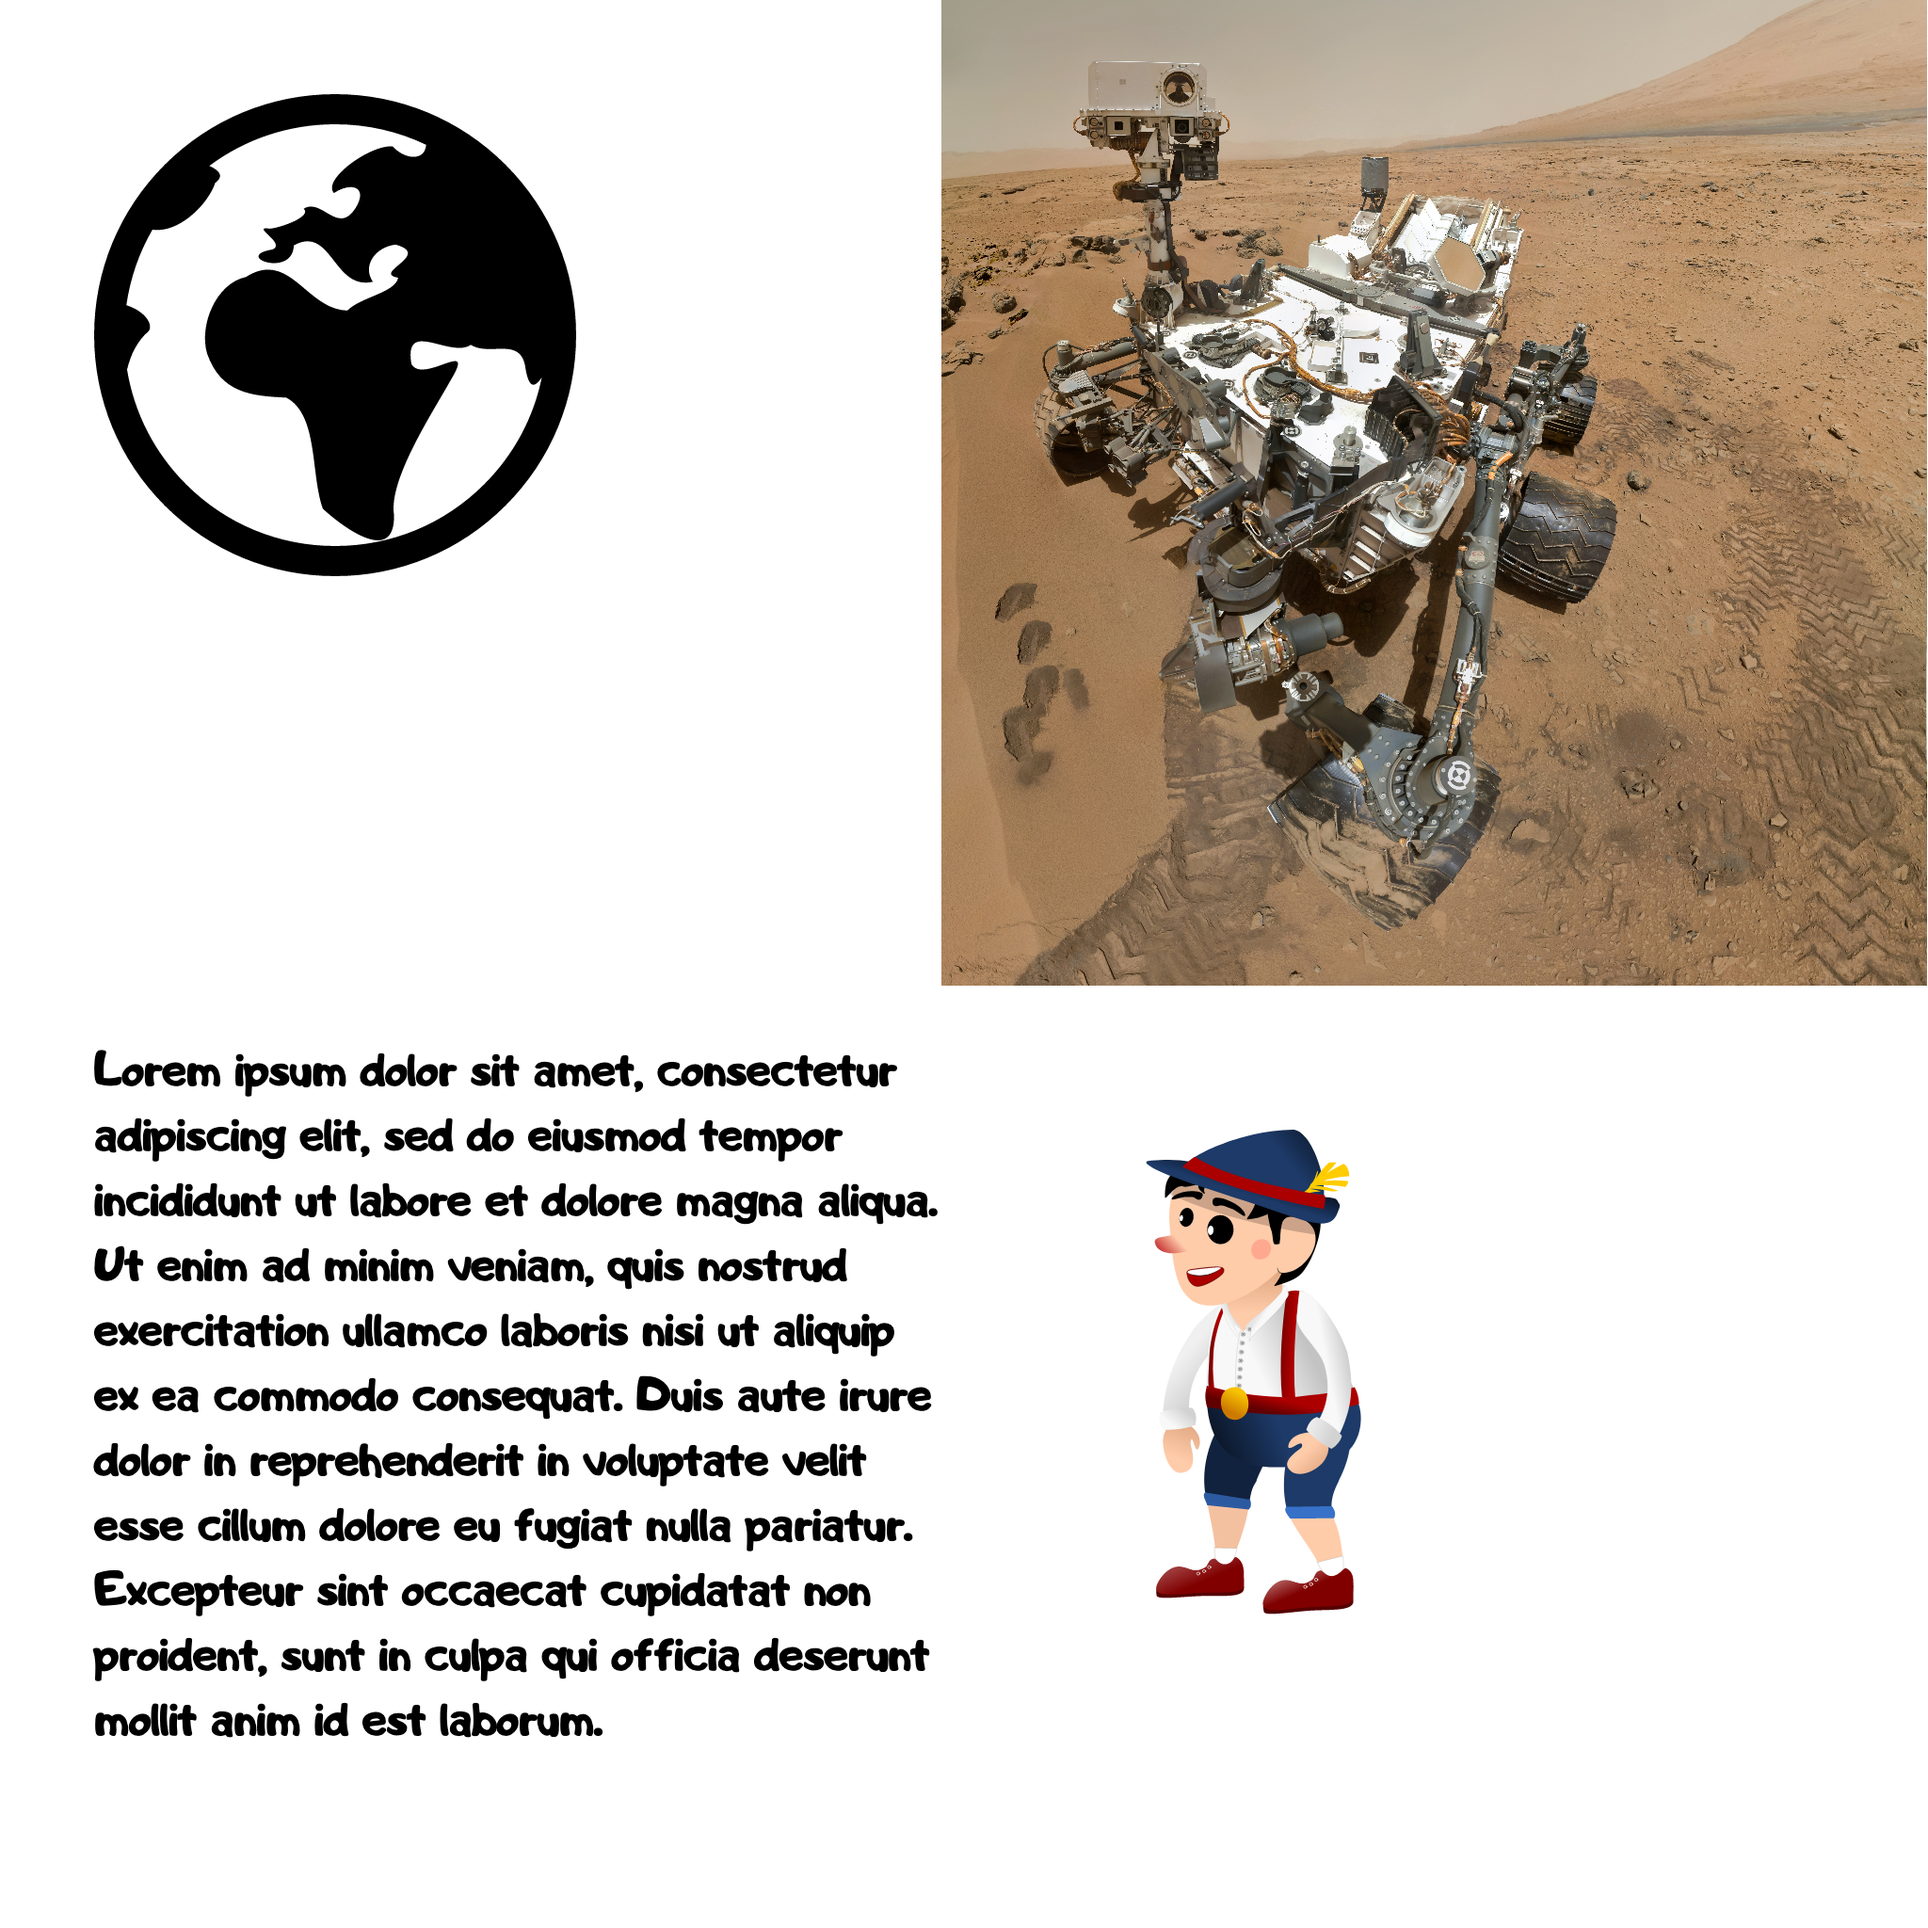
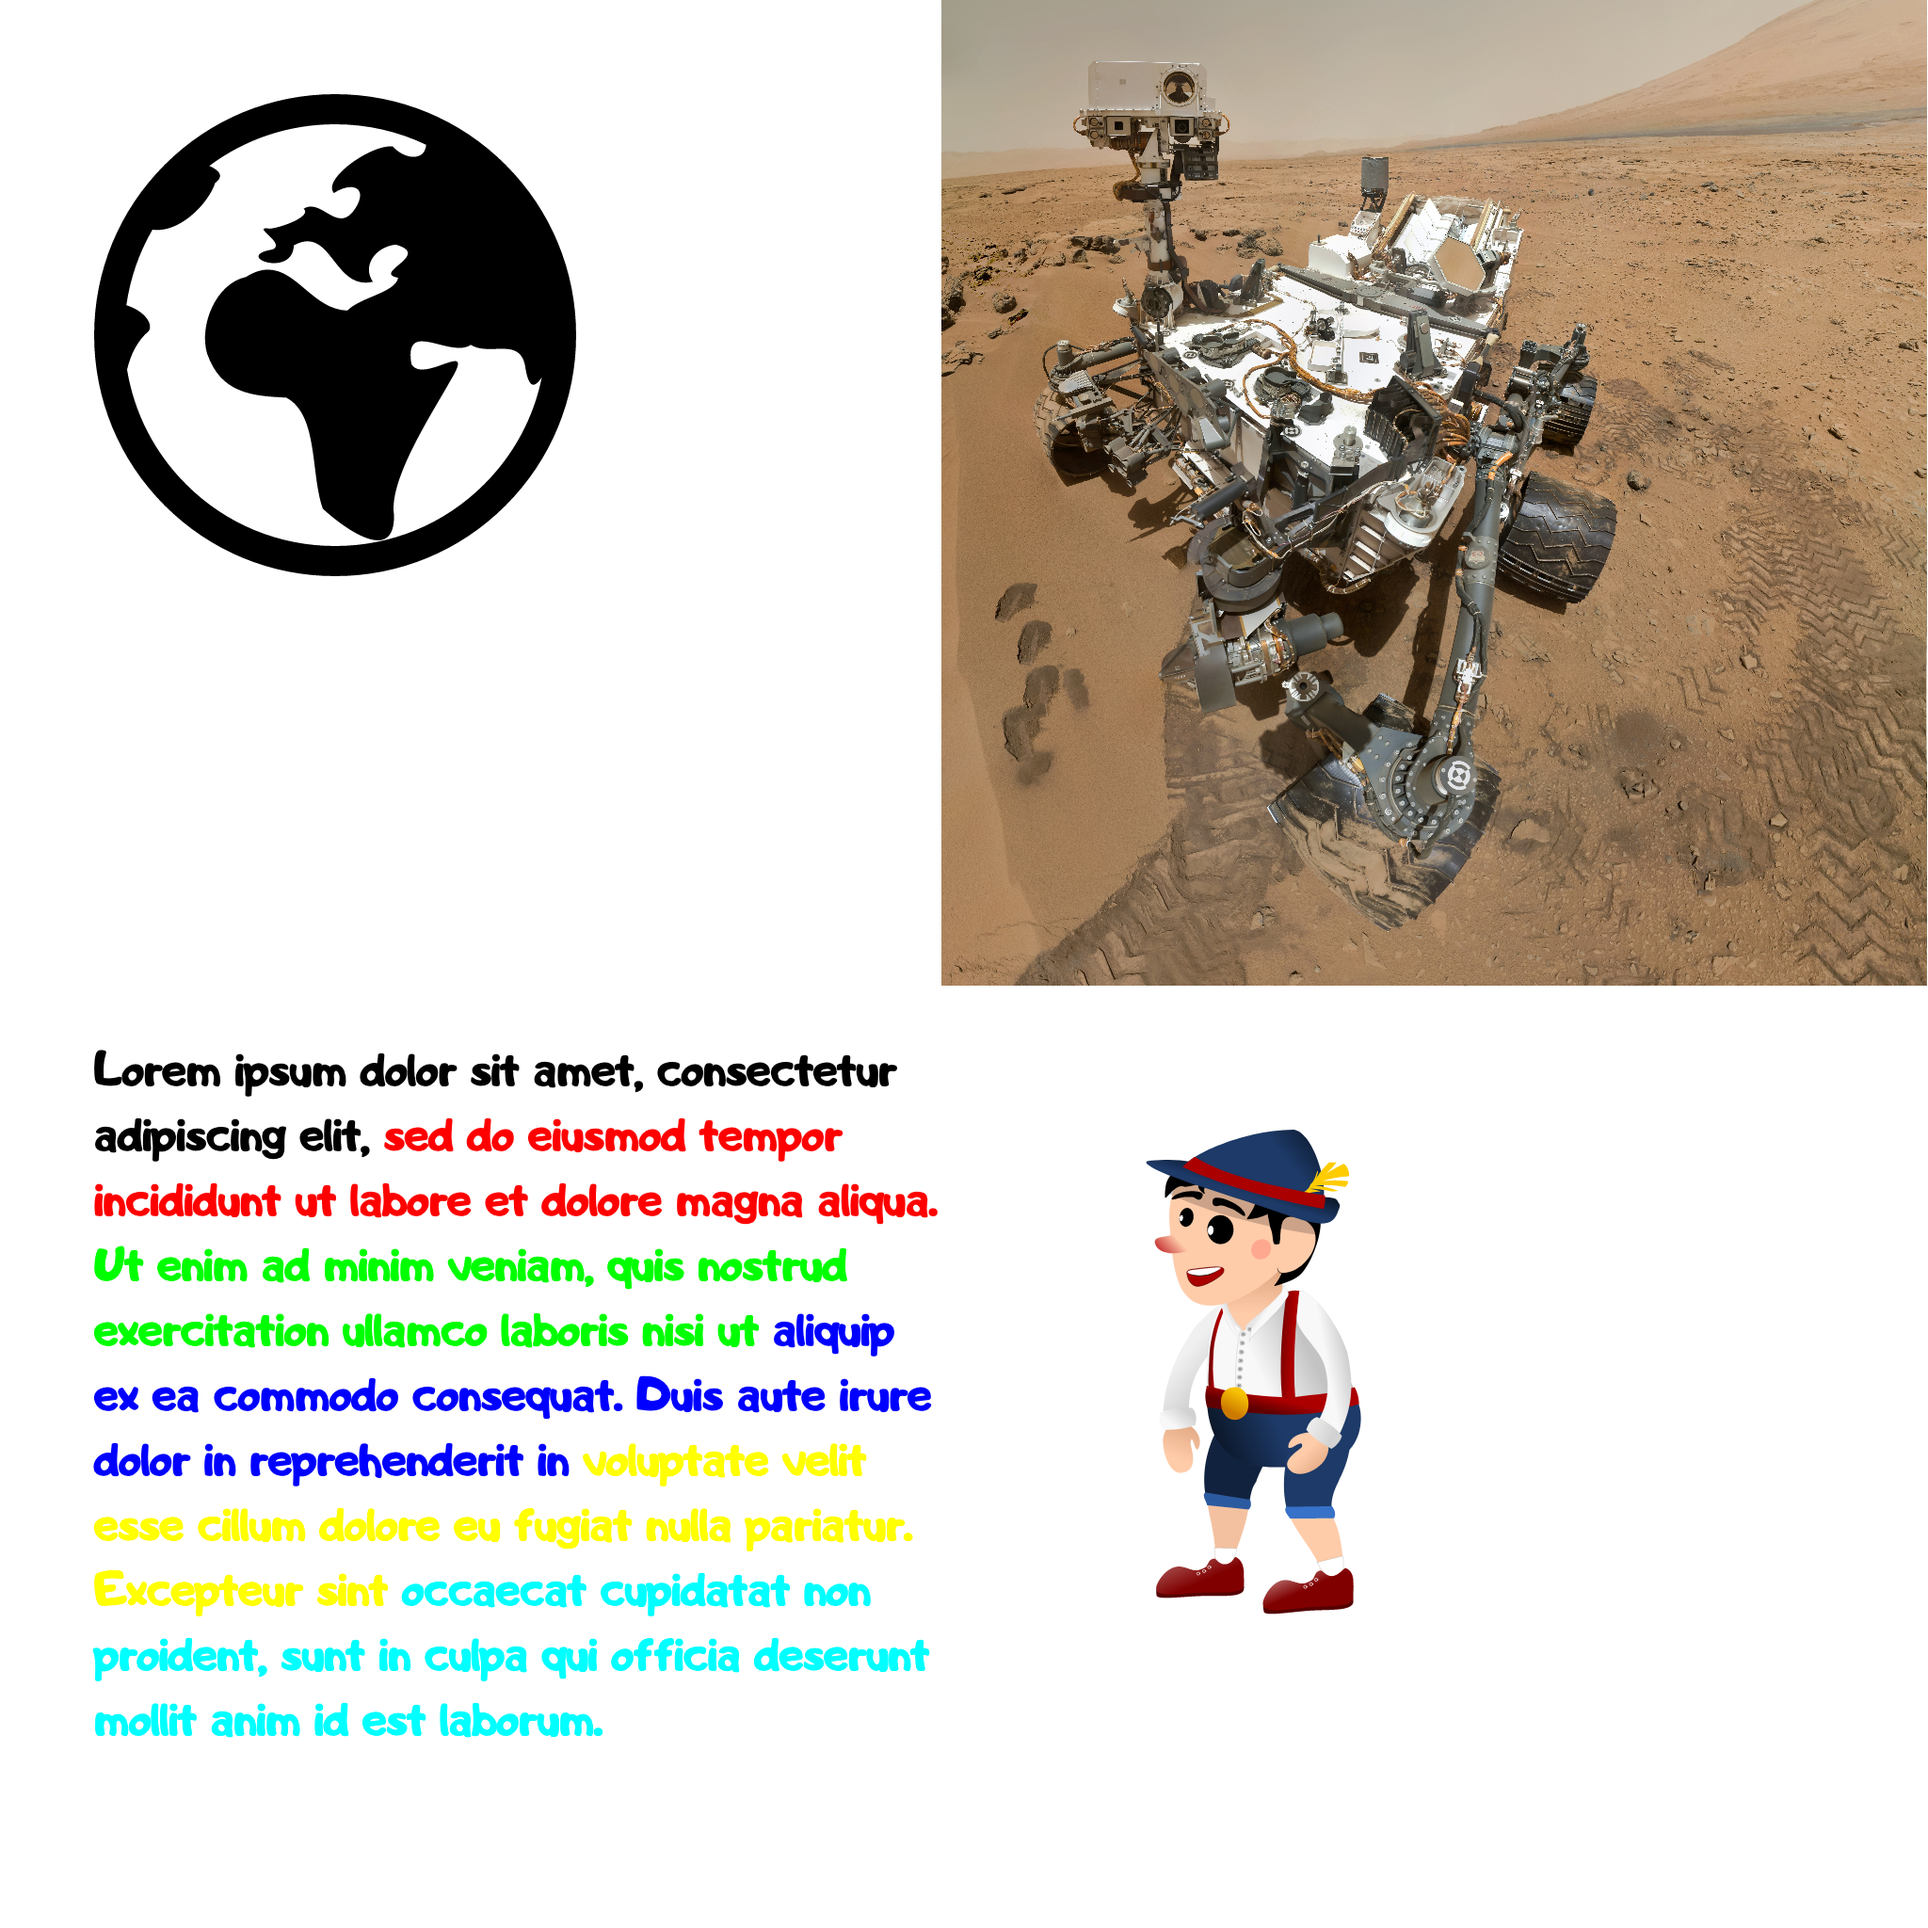
Multicoloured text

Changed region(s): [[0.0312, 0.5625, 0.5, 0.9062]]

diff --git a/src/main/java/org/example/Main.java b/src/main/java/org/example/Main.java
@@ -67,7 +67,22 @@ public class Main {
             typefaceProvider.registerTypeface(font, "Adigiana");
             fontCollection.setAssetFontManager(typefaceProvider);
             var paragraphBuilder = new ParagraphBuilder(style, fontCollection);
-            paragraphBuilder.addText("Lorem ipsum dolor sit amet, consectetur adipiscing elit, sed do eiusmod tempor incididunt ut labore et dolore magna aliqua. Ut enim ad minim veniam, quis nostrud exercitation ullamco laboris nisi ut aliquip ex ea commodo consequat. Duis aute irure dolor in reprehenderit in voluptate velit esse cillum dolore eu fugiat nulla pariatur. Excepteur sint occaecat cupidatat non proident, sunt in culpa qui officia deserunt mollit anim id est laborum.\n");
+            paragraphBuilder.addText("Lorem ipsum dolor sit amet, consectetur adipiscing elit, ");
+            textStyle.setColor(Color.makeRGB(255, 0, 0));
+            paragraphBuilder.pushStyle(textStyle);
+            paragraphBuilder.addText("sed do eiusmod tempor incididunt ut labore et dolore magna aliqua. ");
+            textStyle.setColor(Color.makeRGB(0, 255, 0));
+            paragraphBuilder.pushStyle(textStyle);
+            paragraphBuilder.addText("Ut enim ad minim veniam, quis nostrud exercitation ullamco laboris nisi ut ");
+            textStyle.setColor(Color.makeRGB(0, 0, 255));
+            paragraphBuilder.pushStyle(textStyle);
+            paragraphBuilder.addText("aliquip ex ea commodo consequat. Duis aute irure dolor in reprehenderit in ");
+            textStyle.setColor(Color.makeRGB(255, 255, 0));
+            paragraphBuilder.pushStyle(textStyle);
+            paragraphBuilder.addText("voluptate velit esse cillum dolore eu fugiat nulla pariatur. Excepteur sint ");
+            textStyle.setColor(Color.makeRGB(0, 255, 255));
+            paragraphBuilder.pushStyle(textStyle);
+            paragraphBuilder.addText("occaecat cupidatat non proident, sunt in culpa qui officia deserunt mollit anim id est laborum.\n");
             var paragraph = paragraphBuilder.build();
             paragraph.layout(900);
 
